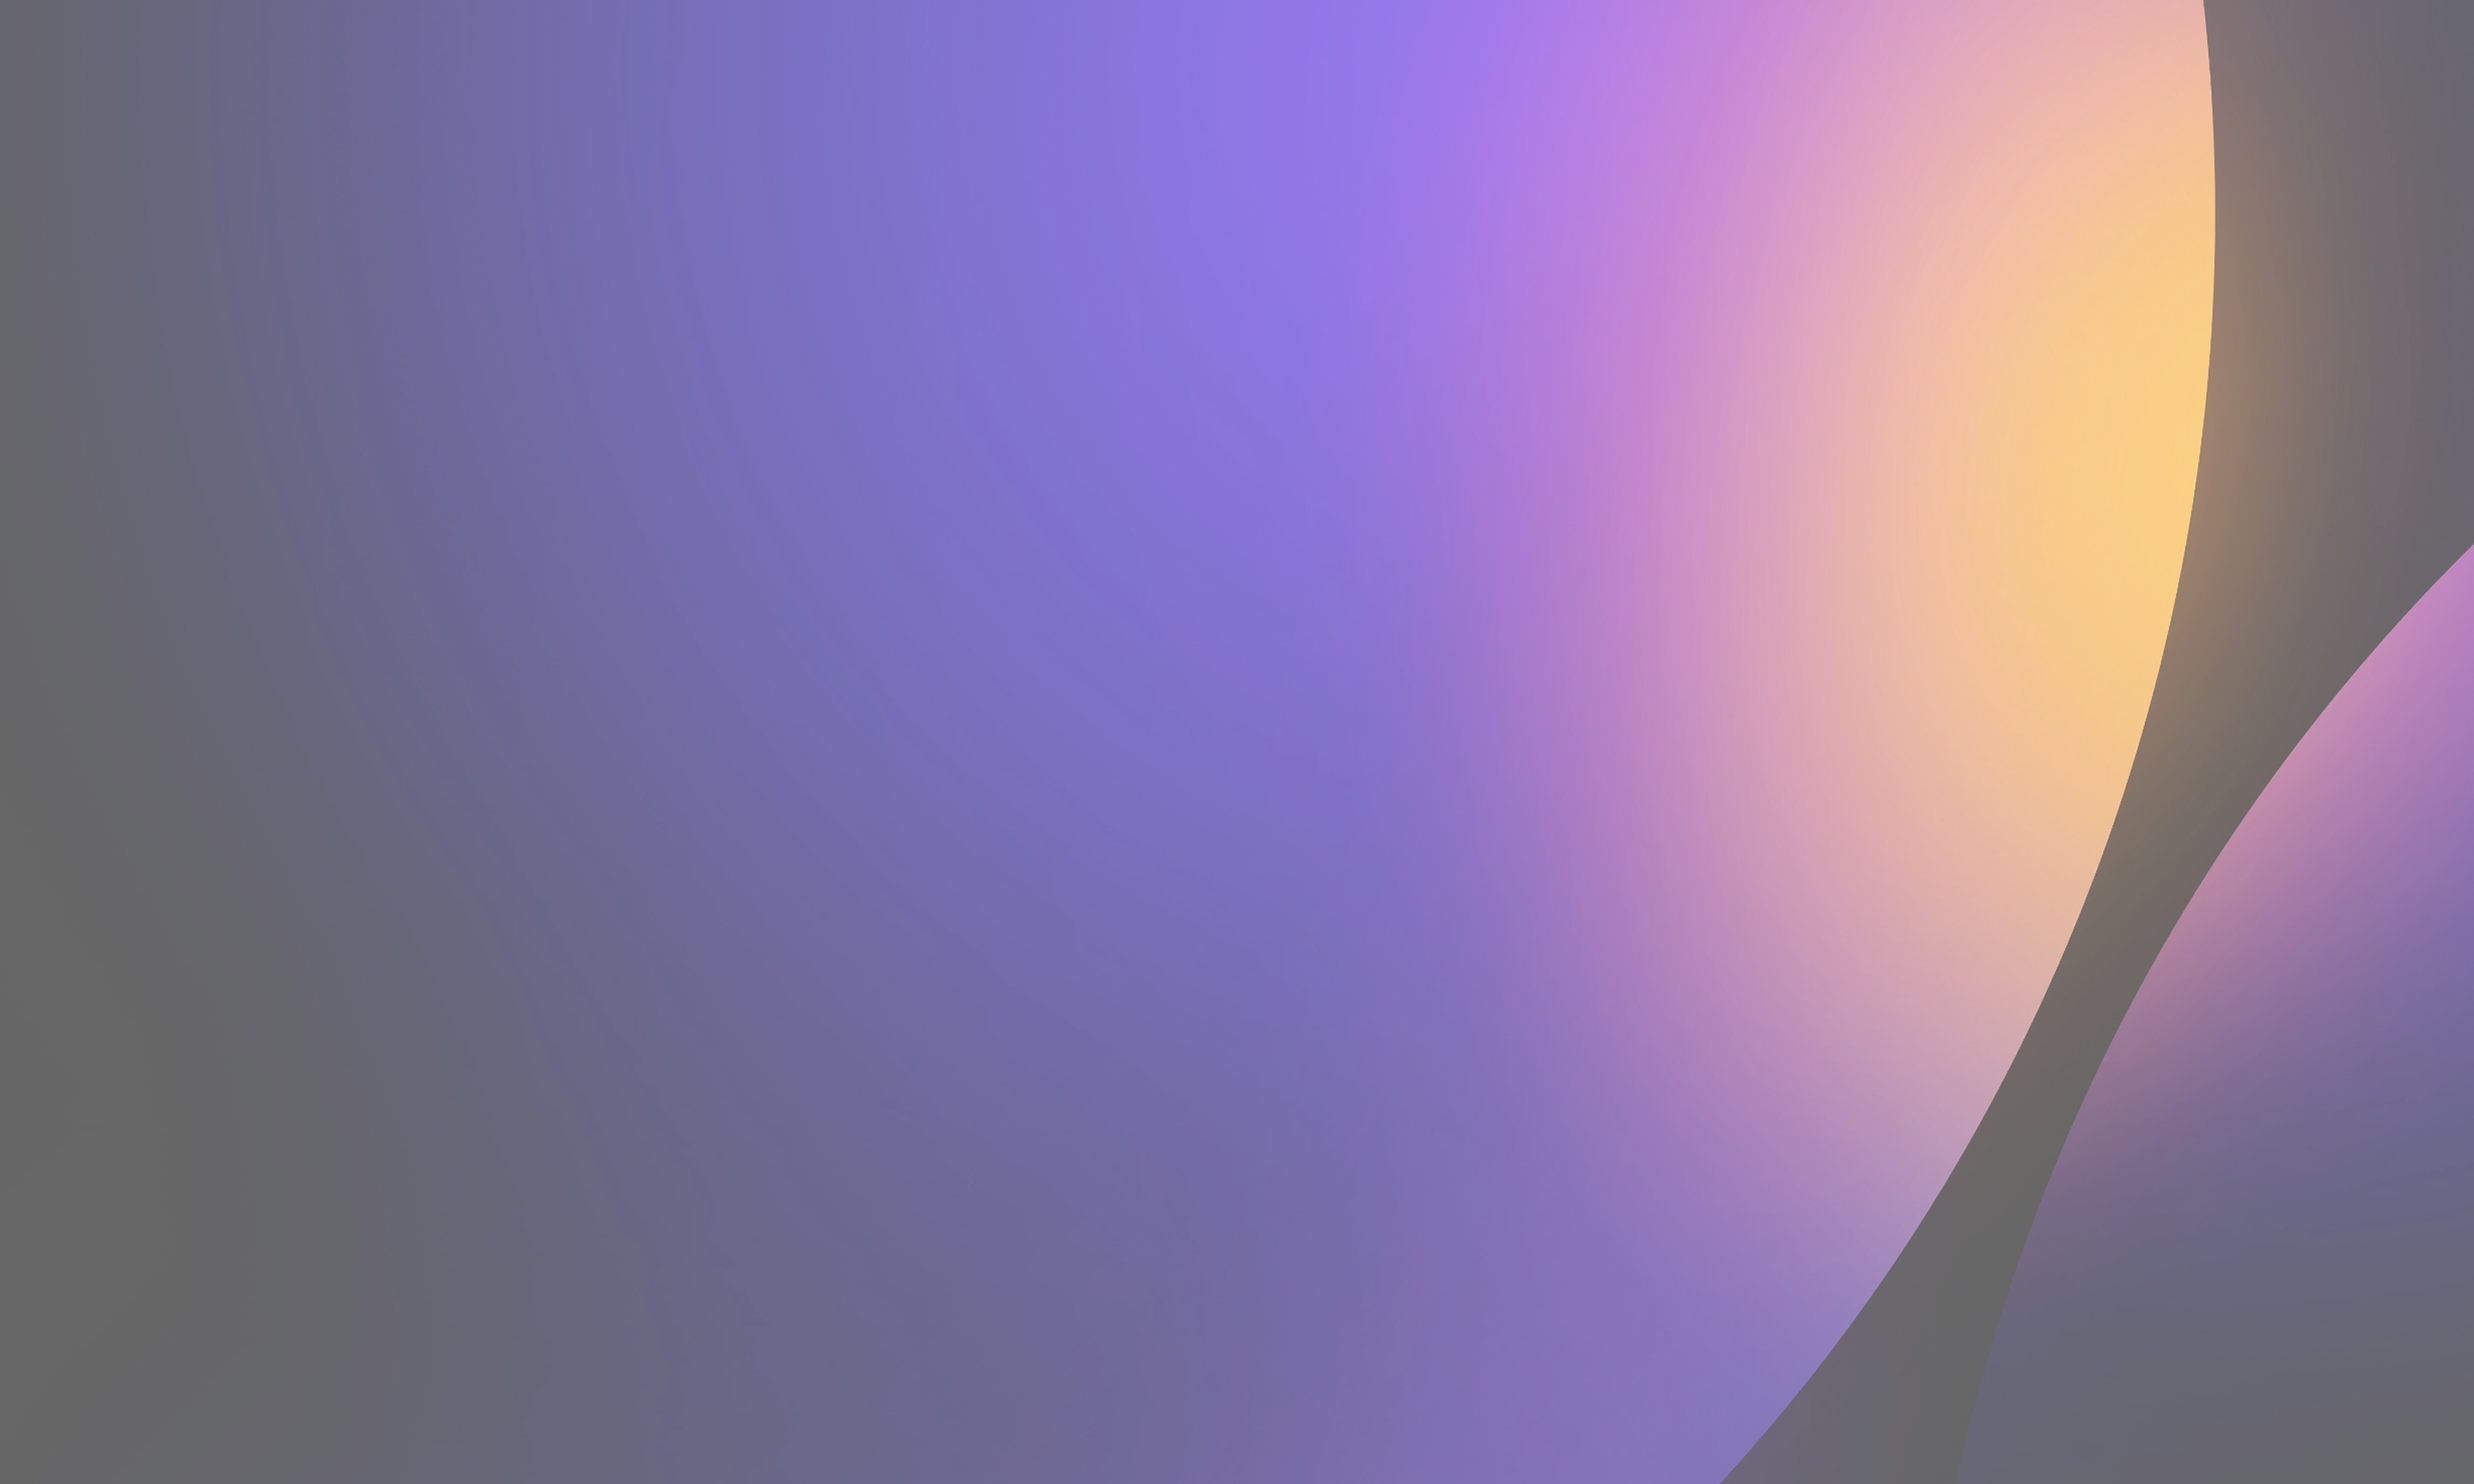
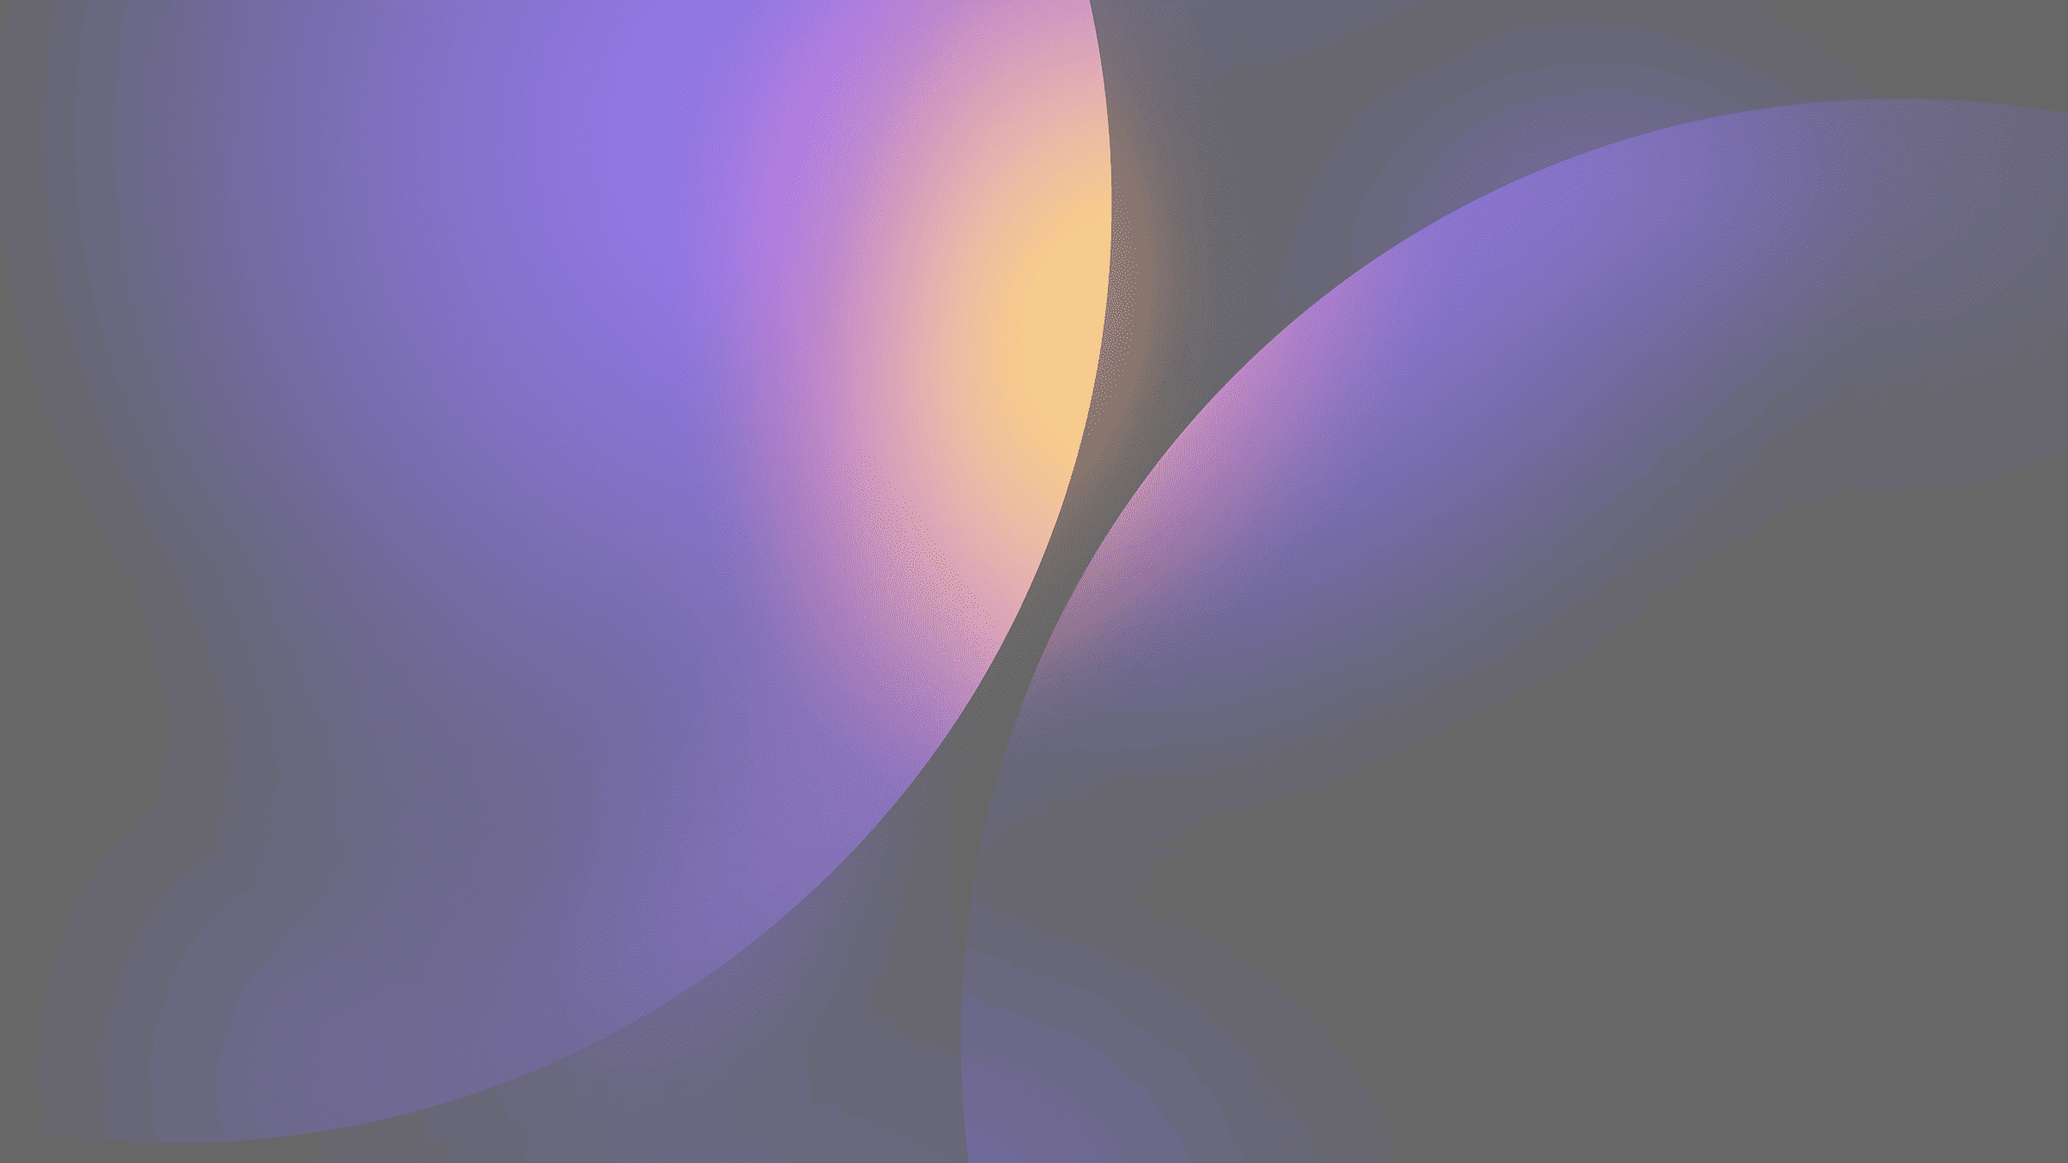
size reduced

diff --git a/src/assets/assets.js b/src/assets/assets.js
@@ -1,5 +1,4 @@
 import Logo from "./images/Logo";
-import BannerImg from "./images/Background.png";
 import Ellipse from "./images/Ellipse.png";
 import MyImage from "./images/Myphoto.png";
 import BlueEllipse from "./images/blue-ellipse.svg";
@@ -8,7 +7,6 @@ import GroupLayer from "./images/group-layer.svg";
 import DrawLine from "./images/draw-line.png";
 import Bird from "./images/bird.png";
 import Gear from "./images/gear.png";
-import Prism from "./images/prism.png";
 import Airplane from "./images/airplane.png";
 import CardBg from "./images/card-bg.png";
 import RightTop from "./icons/right-top.svg";
@@ -23,7 +21,6 @@ import EdgeProp  from "./images/Edge-prop.png";
 
 const assets = {
     Logo,
-    BannerImg,
     Ellipse,
     MyImage,
     BlueEllipse,
@@ -32,7 +29,6 @@ const assets = {
     DrawLine,
     Bird,
     Gear,
-    Prism,
     Airplane,
     CardBg,
     RightTop,

diff --git a/src/components/Banner/Banner.css b/src/components/Banner/Banner.css
@@ -1,5 +1,5 @@
 .banner {
-    background-image: url("../../assets/images/Background2.png");
+    background-image: url("../../assets/images/Background.png");
     height: 100vh;
     background-size: 150%;
     background-position: 5% 5%;
